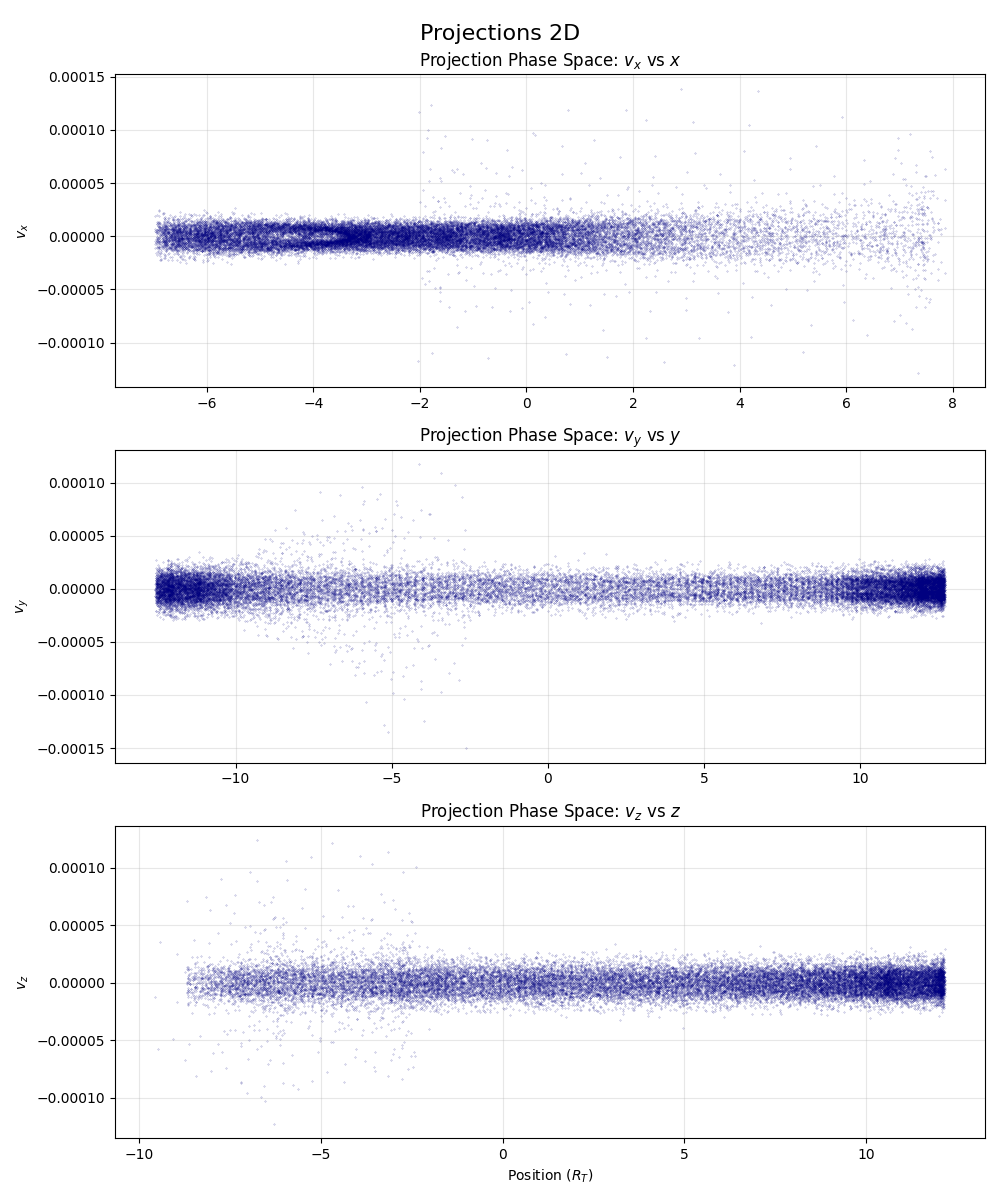
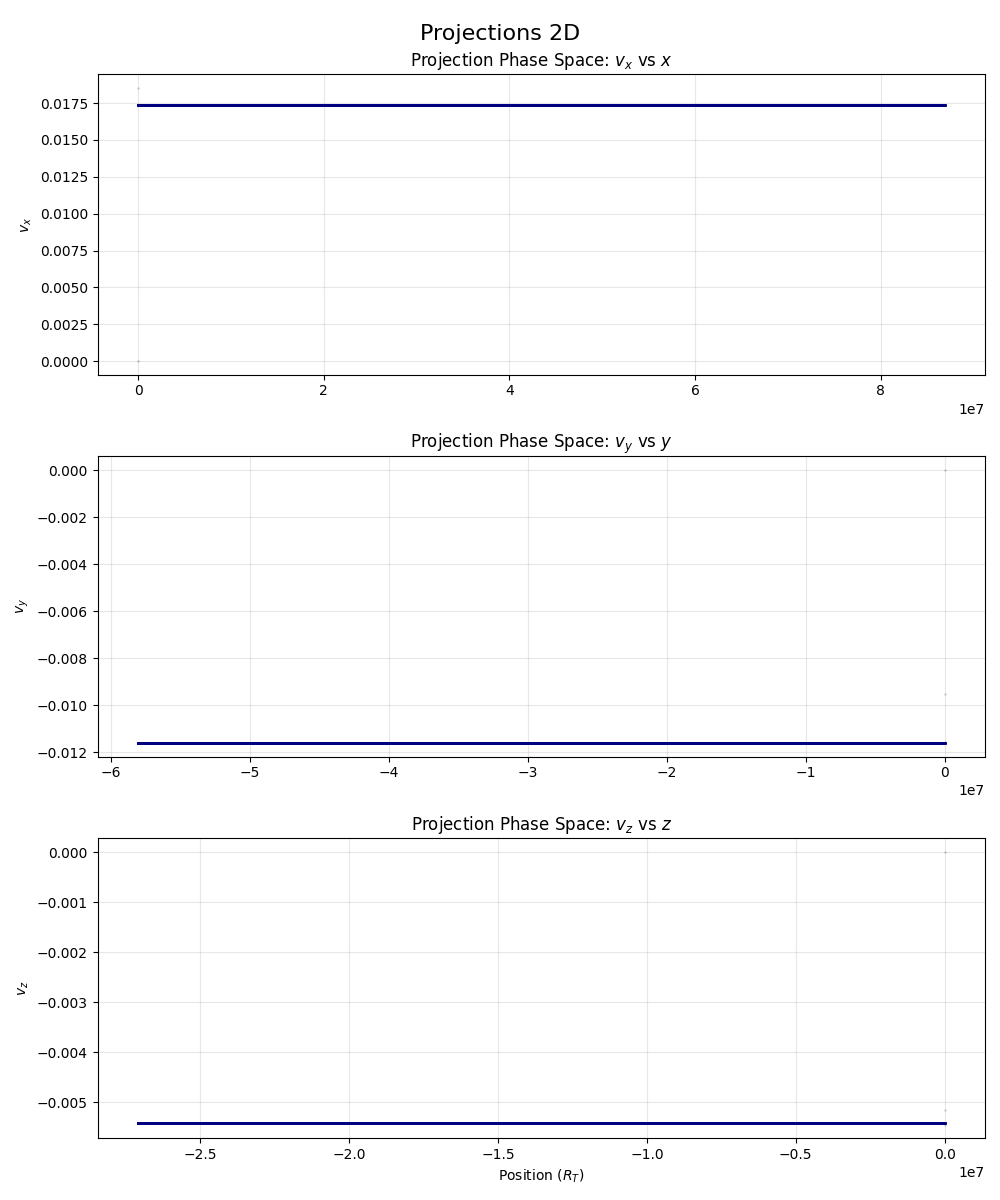
blba

diff --git a/generate_solutions.py b/generate_solutions.py
@@ -289,7 +289,7 @@ def compute_solution_trash_points_by_steps(
     h = initial_step_size
 
     if multiple_steps_method:
-        for i in range(1, number_of_steps):
+        for i in range(1, model_n_steps):
             vector_list = []
             for j in range(i):
                 vector_list.append(solution[-i])
@@ -306,22 +306,22 @@ def compute_solution_trash_points_by_steps(
     while n_steps < max_n_steps - 1:
         print(n_steps, h)
         vector_list = []
-        for i in range(number_of_steps):
+        for i in range(model_n_steps):
             vector_list.append(solution[-1 - i])
         new_step_large = model(
-            vector_list, differential_equation, ti, h, number_of_steps
+            vector_list, differential_equation, ti, h, model_n_steps
         )
         new_step_pos_large = new_step_large[0]
         if variable_steps:
             half_step_fine = model(
-                vector_list, differential_equation, ti, h / 2, number_of_steps
+                vector_list, differential_equation, ti, h / 2, model_n_steps
             )
             new_step_fine = model(
                 [half_step_fine],
                 differential_equation,
                 ti + h / 2,
                 h / 2,
-                number_of_steps,
+                model_n_steps,
             )
             new_step_pos_fine = new_step_fine[0]
             max_variation = 0
@@ -338,7 +338,7 @@ def compute_solution_trash_points_by_steps(
                 h *= 0.9 * (tolerated_variation / max_variation) ** (1 / (model_order + 1))
             if max_variation >= tolerated_variation:
                 new_step = model(
-                    vector_list, differential_equation, ti, h, number_of_steps
+                    vector_list, differential_equation, ti, h, model_n_steps
                 )
                 solution.append(new_step)
                 n_steps += 1
@@ -701,7 +701,7 @@ def saved_plot_kinetic_energy(
     kinetic_energy = []
     for i in range(len(velocity)):
         kinetic_energy.append(1 / 2 * mp * abs(velocity[i]) ** 2)
-    sb.lineplot(x=time_list, y=kinetic_energy)
+    sb.lineplot(x=time_list[100:], y=kinetic_energy[100:])
     plt.title("System kinetic energy during time")
     plt.grid(True)
     plt.savefig(save_name)

diff --git a/main.py b/main.py
@@ -21,11 +21,11 @@ solution_normalized, time_noramlized = compute_solution_trash_points_by_steps(
     RK4,
     differential_equation_normalized,
     initial_conditions,
-    50000,
-    1,
+    1000000,
+    5000,
     multiple_steps_method=True,
     ratio=2,
-    variable_steps=True,
+    variable_steps=False,
 )
 
 print(len(solution_normalized))
